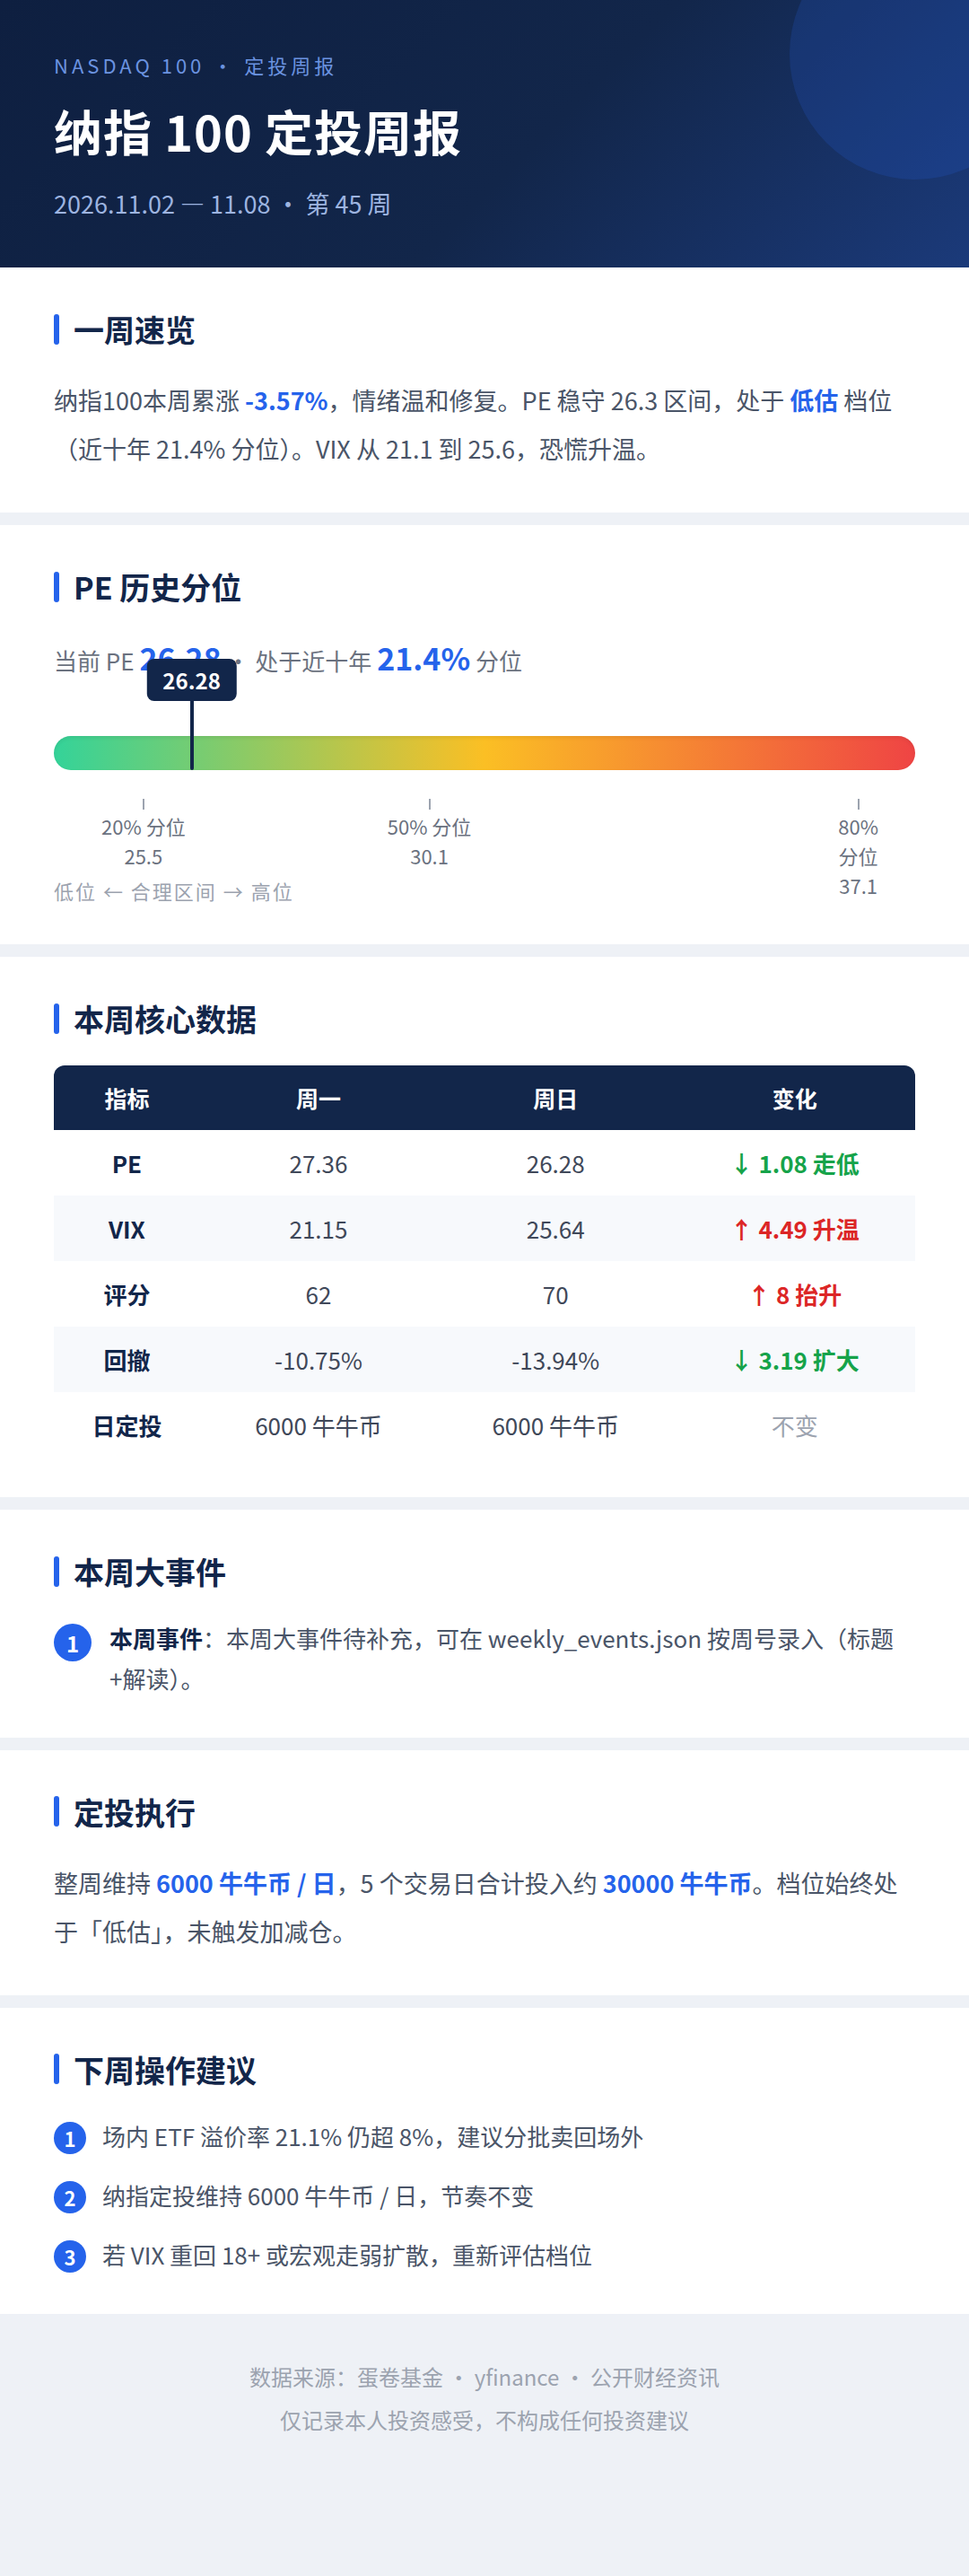
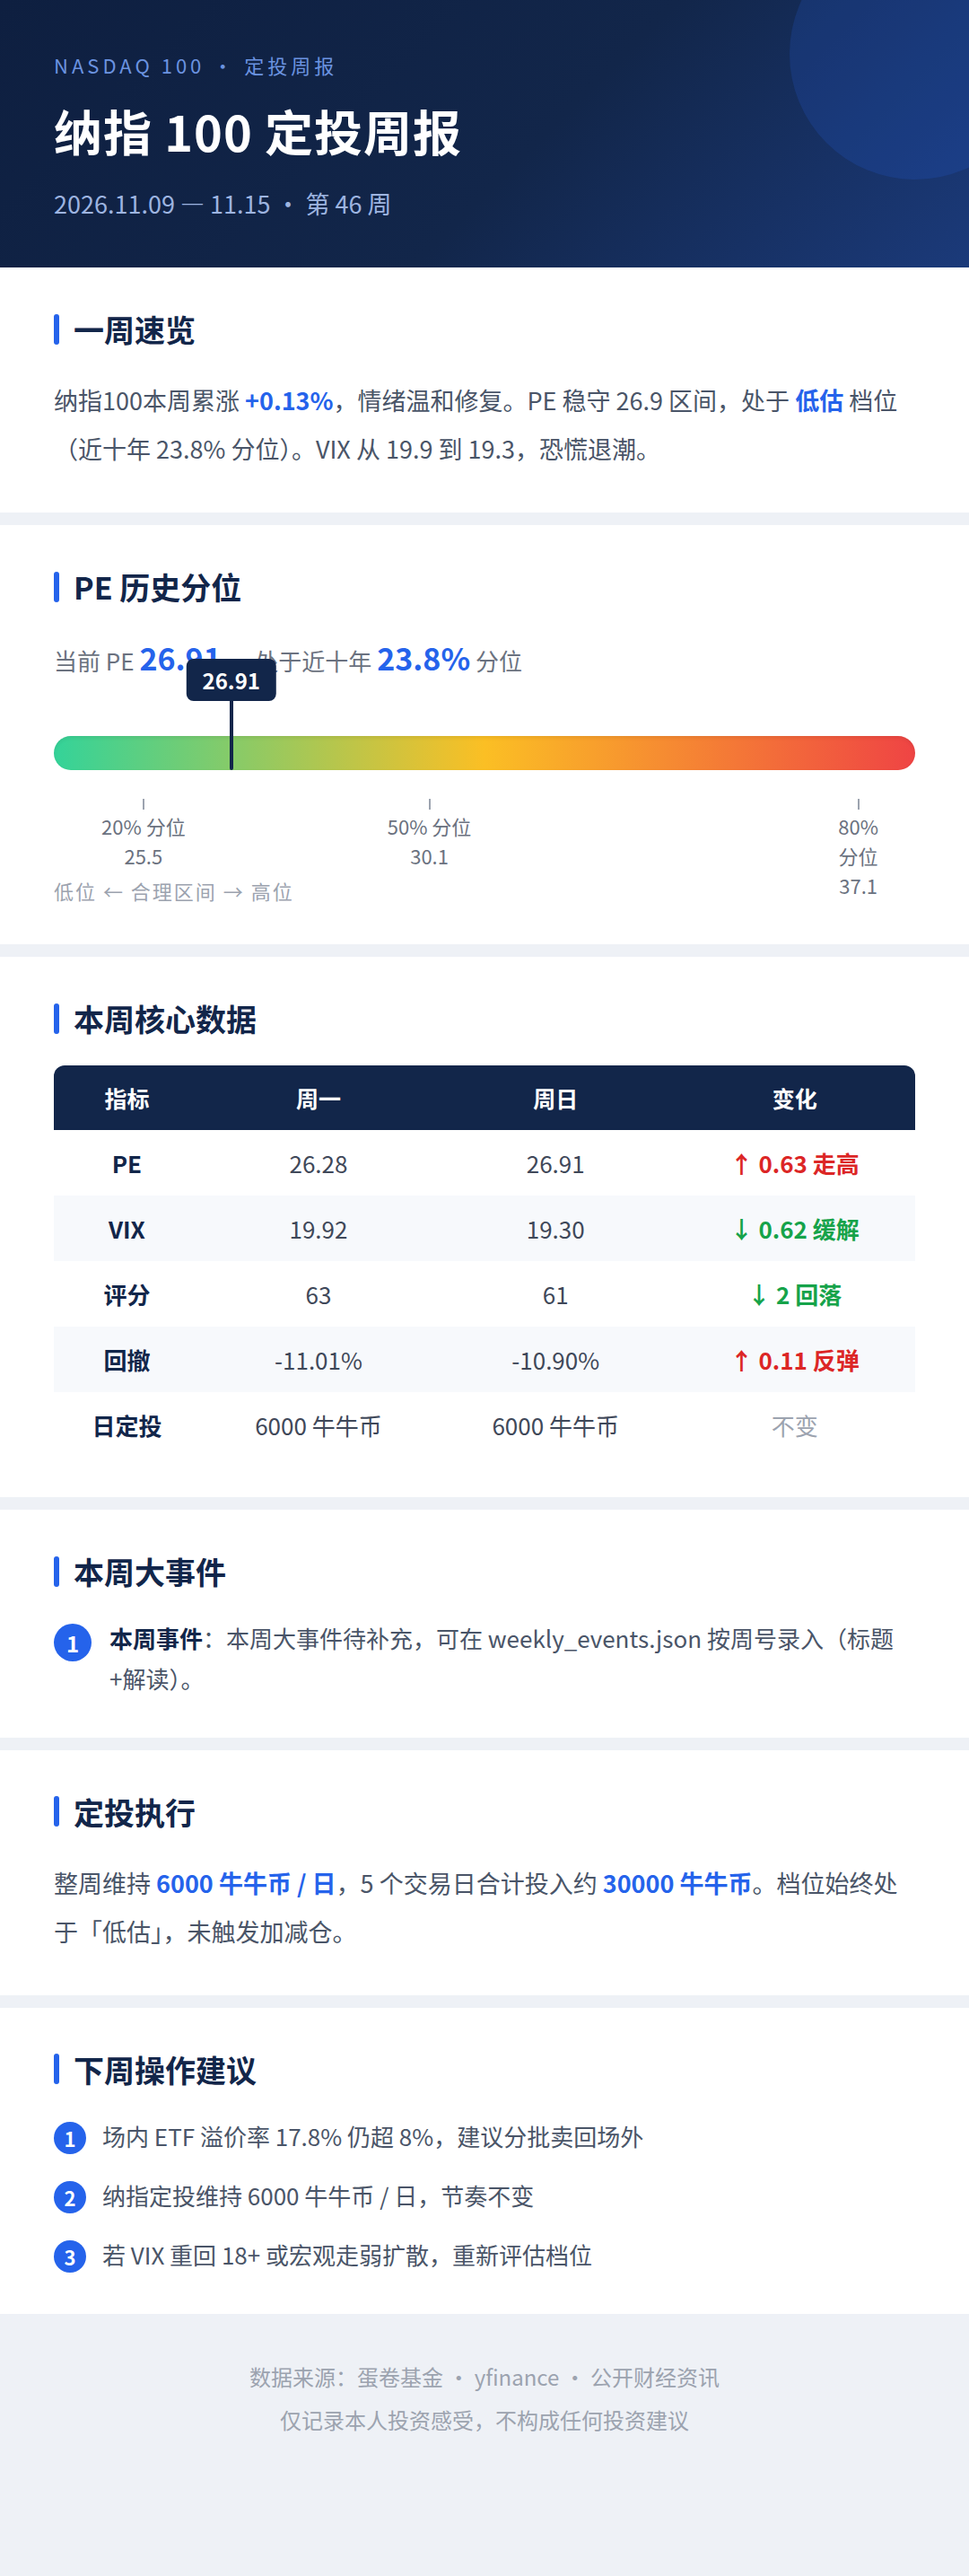
📰 周报 2026-11-14 第46周

diff --git a/weekly/index.html b/weekly/index.html
@@ -1,7 +1,7 @@
 <!DOCTYPE html>
 <html lang="zh-CN"><head><meta charset="UTF-8">
 <meta name="viewport" content="width=device-width,initial-scale=1">
-<title>纳指100定投周报 · 第 45 周</title>
+<title>纳指100定投周报 · 第 46 周</title>
 <style>
 body{margin:0;background:#eef1f6;font-family:-apple-system,'PingFang SC','Microsoft YaHei','Noto Sans CJK SC',sans-serif}
 .wrap{max-width:1080px;margin:0 auto;padding:20px}
@@ -11,8 +11,8 @@ img{width:100%;height:auto;display:block;border-radius:8px;box-shadow:0 2px 10px
 .tip{text-align:center;color:#6b7280;font-size:13px;margin:14px 0}
 </style></head>
 <body><div class="wrap">
-<h1>纳指100 定投周报 · 第 45 周</h1>
-<div class="sub">2026.11.02 — 11.08</div>
+<h1>纳指100 定投周报 · 第 46 周</h1>
+<div class="sub">2026.11.09 — 11.15</div>
 <img src="周报.png" alt="周报长图">
 <div class="tip">长按 / 右键图片即可保存 · 数据来源：蛋卷基金 · yfinance · 公开财经资讯 · 仅供参考不构成投资建议</div>
 </div></body></html>
